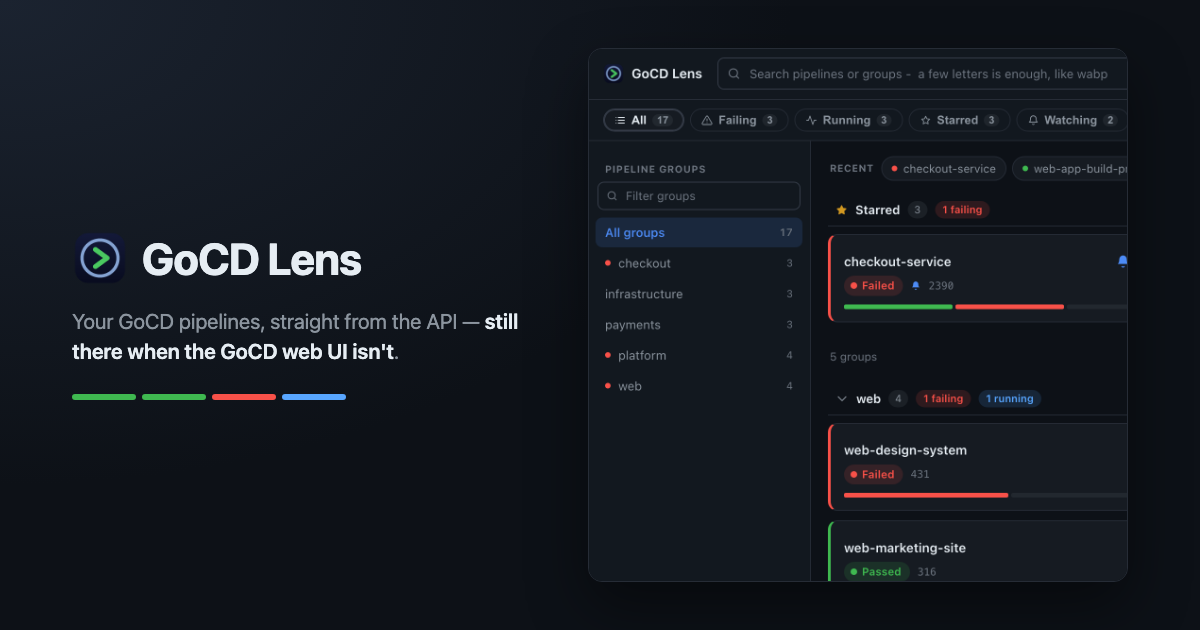
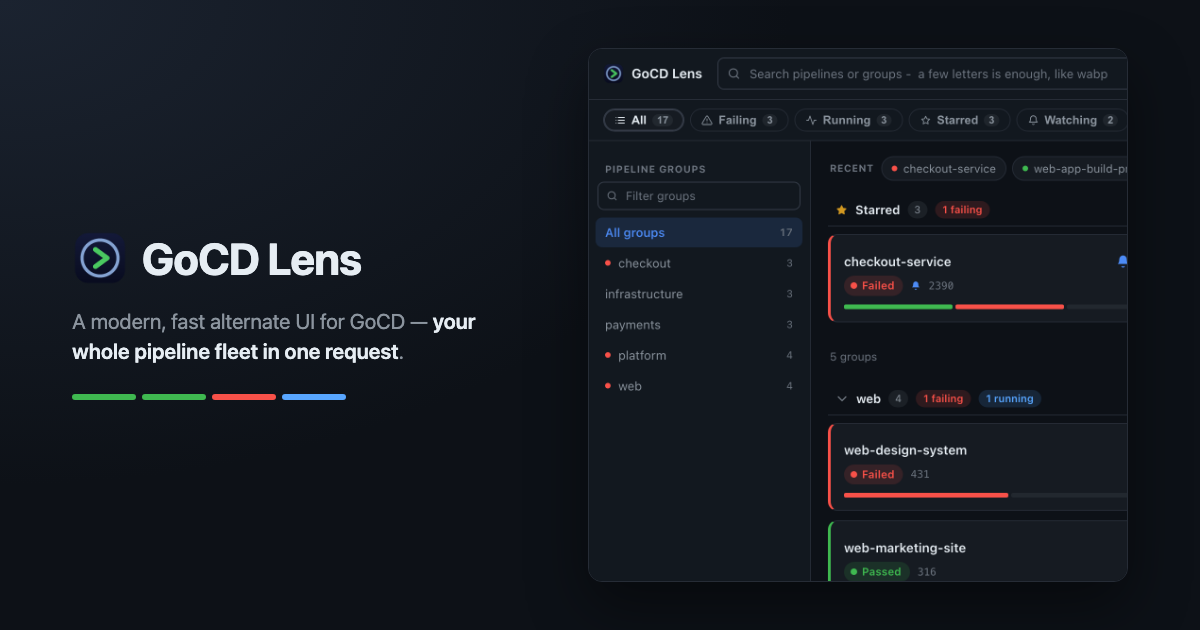
Describe the product by what it is, not by GoCD being down
The one-line description led with "keeps working when the GoCD web UI
doesn't", which is true but says nothing about what the extension is for.
Reviewed as: not very important to the reader. Lead with the product --
a modern, fast alternate UI for GoCD -- and let scale, MIT and no
analytics carry the rest.

Site, link-preview card and store copy only; the "is it GoCD, or is it
me?" check and the in-app text are unchanged.

Changed region(s): [[0.0617, 0.4825, 0.4317, 0.573]]

diff --git a/site/index.html b/site/index.html
@@ -7,7 +7,7 @@
     <title>GoCD Lens — your GoCD pipelines, straight from the API</title>
     <meta
       name="description"
-      content="A browser extension that reads the GoCD REST API and draws its own dashboard, so it keeps working when the GoCD web UI doesn't. Nothing leaves your machine."
+      content="A modern, fast and efficient alternate UI for GoCD — the whole pipeline fleet in one request, per-stage status and live console logs. MIT licensed. No analytics."
     />
     <link rel="canonical" href="https://go-cd-lens.vercel.app/" />
     <meta name="theme-color" content="#0d1117" />
@@ -27,7 +27,7 @@
     <meta property="og:title" content="GoCD Lens — your GoCD pipelines, straight from the API" />
     <meta
       property="og:description"
-      content="Reads the same REST API your GoCD dashboard does and draws its own, so it keeps working when the web UI doesn't. No content scripts, no analytics, nothing synced."
+      content="A modern, fast and efficient alternate UI for GoCD. One request loads every pipeline, every card shows its stages, and four letters find the one you want. MIT licensed. No analytics."
     />
     <meta property="og:image" content="https://go-cd-lens.vercel.app/img/og.png" />
     <meta property="og:image:width" content="1200" />
@@ -37,7 +37,7 @@
     <meta name="twitter:title" content="GoCD Lens — your GoCD pipelines, straight from the API" />
     <meta
       name="twitter:description"
-      content="Reads the same REST API your GoCD dashboard does and draws its own, so it keeps working when the web UI doesn't."
+      content="A modern, fast and efficient alternate UI for GoCD. One request loads every pipeline, and every card shows its stages. MIT licensed. No analytics."
     />
     <meta name="twitter:image" content="https://go-cd-lens.vercel.app/img/og.png" />
 
@@ -60,13 +60,13 @@
         "name": "GoCD Lens",
         "applicationCategory": "DeveloperApplication",
         "operatingSystem": "Chrome 116+, Microsoft Edge, Brave",
-        "description": "A browser extension that reads GoCD pipelines from the GoCD REST API and draws its own dashboard, so it keeps working when the GoCD web UI does not. All data stays on the user's machine.",
+        "description": "A modern, fast and efficient alternate UI for GoCD. It reads pipelines from the GoCD REST API and draws its own dashboard in the browser, built for instances with thousands of pipelines. MIT licensed, no analytics, and all data stays on the user's machine.",
         "url": "https://go-cd-lens.vercel.app/",
-        "softwareVersion": "1.1.0",
+        "softwareVersion": "1.1.1",
         "license": "https://opensource.org/licenses/MIT",
         "offers": { "@type": "Offer", "price": "0", "priceCurrency": "USD" },
         "featureList": [
-          "Reads the GoCD REST API directly instead of the GoCD web UI",
+          "Reads pipelines straight from the GoCD REST API",
           "One request loads every pipeline group and its latest run",
           "Per-stage status strip on every pipeline card",
           "Fuzzy search across pipeline and group names",
@@ -85,10 +85,10 @@
         "mainEntity": [
           {
             "@type": "Question",
-            "name": "Does GoCD Lens work when the GoCD web UI is down?",
+            "name": "What does GoCD Lens add over the GoCD dashboard?",
             "acceptedAnswer": {
               "@type": "Answer",
-              "text": "That is what it is for. GoCD's REST API and its web interface fail independently — in production we have seen the view lookup break and take the dashboard down with it while a plain API request answered perfectly. GoCD Lens only uses the API, and its built-in check probes the API and the web UI separately so you can tell which one is broken."
+              "text": "It is a separate dashboard built for instances with thousands of pipelines. One request loads every group, pipeline and latest run; each card carries a per-stage strip, so you can see which stage broke without opening anything; fuzzy search finds a pipeline in four letters; and starring, watching, re-running selected jobs in a stage and tailing a console log are all on the screen you are already on. It reads GoCD's public REST API, so it shows the same data your server already has."
             }
           },
           {
@@ -183,9 +183,9 @@
         <p class="eyebrow">Chrome · Edge · Brave</p>
         <h1>Your GoCD pipelines,<br /><span class="grad">straight from the API</span>.</h1>
         <p class="lede">
-          GoCD's API keeps answering through server restarts, slow page loads and the dashboard's
-          habit of losing your pipelines. The web UI in front of it does not. GoCD Lens skips that
-          page entirely and draws its own — so what you see is whatever the server actually knows.
+          A modern, fast alternate UI for GoCD, built for instances with thousands of pipelines.
+          One request loads the whole fleet, every card shows where a run got to stage by stage,
+          and four letters are enough to find the one you want.
         </p>
         <div class="cta">
           <a class="btn btn-primary" href="https://chromewebstore.google.com/detail/gocd-lens/hlpppcihkjhenaefanggabmhcmigppnd"
@@ -455,13 +455,14 @@
         <h2>Questions people ask</h2>
 
         <details>
-          <summary>Does it work when the GoCD web UI is down?</summary>
+          <summary>What does it add over the GoCD dashboard?</summary>
           <p>
-            That is what it is for. The API and the web interface fail independently — we have
-            watched GoCD's view lookup break and take the dashboard down with it while a plain
-            <code>/api/dashboard</code> request answered perfectly. GoCD Lens only uses the API, and
-            its <em>"is it GoCD, or is it me?"</em> check probes the API and the web UI separately
-            and times both, so you can tell which one is actually broken.
+            It is a separate dashboard built for big instances. One
+            <code>/api/dashboard</code> call loads every group, pipeline and latest run; each card
+            carries a per-stage strip, so you see which stage broke without opening anything; four
+            letters find a pipeline; and starring, watching, re-running selected jobs in a stage and
+            tailing a console log all happen on the screen you are already on. It reads GoCD's
+            public REST API, so the data is the same data your server already has.
           </p>
         </details>
 

diff --git a/docs/PUBLISHING.md b/docs/PUBLISHING.md
@@ -82,14 +82,14 @@ GoCD Lens
 **Summary** (132 characters max — this is the one-liner in search results)
 
 ```
-See your GoCD pipelines even when the GoCD web UI won't load. Reads the API directly. Nothing leaves your machine.
+A modern, fast and efficient alternate UI for GoCD. Your whole pipeline fleet in one tab, straight from the GoCD API.
 ```
 
 **Description** (16,000 characters max)
 
 ```
-GoCD Lens reads your GoCD server's REST API and draws its own dashboard, so it keeps working when
-the GoCD web interface does not.
+GoCD Lens is a modern, fast and efficient alternate UI for GoCD. It reads your GoCD server's REST
+API and draws its own dashboard in the browser, built for instances with thousands of pipelines.
 
 WHAT IT DOES
 
@@ -108,8 +108,6 @@ WHAT IT DOES
 • Watch a pipeline and be told when a run starts and finishes — whether it passed and, if not,
   which stage went red — with an optional short chime.
 • A toolbar badge that counts what is running, and turns red with a failure count when nothing is.
-• An "is it GoCD, or is it me?" check that probes the API and the web UI separately and times
-  both, so you can tell a broken dashboard from a broken pipeline.
 
 BUILT FOR A BIG INSTANCE
 
